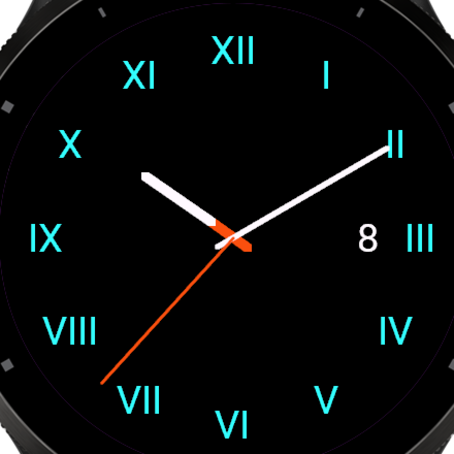
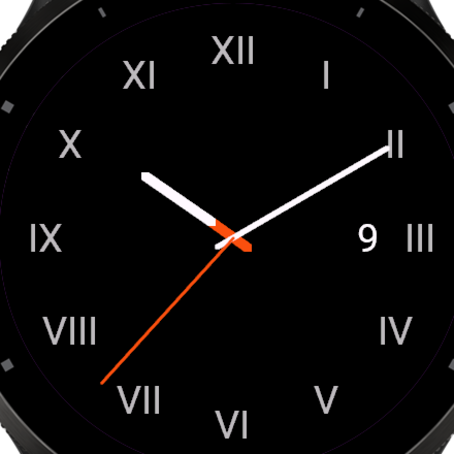
Grey (silver) numerals for the Black/Silver theme (#34) (#35)
Change the Black/Silver numerals from cyan 0x00FFFF to a silver-grey 0xC0C0C0
so the theme actually looks silver. Full-color devices (incl. FR70) render the
grey; fr55's 8-color palette has no grey, so it quantizes to white -- still
readable on black and still distinct from Black/Gold's yellow. Update
gen_screens.py and regenerate the Black/Silver store screenshot.

diff --git a/store/gen_screens.py b/store/gen_screens.py
@@ -23,7 +23,7 @@ THEMES = [
     ("4-red",           0xFF0000, 0xFFFF00, 0xFFFFFF, 0xFFFFFF, 0x00FF00),
     ("5-yellow",        0xFFFF00, 0x000000, 0x000000, 0x000000, 0xFF0000),
     ("6-black_gold",    0x000000, 0xFFFF00, 0xFFFFFF, 0xFFFFFF, 0xFFAAFF),
-    ("7-black_silver",  0x000000, 0x00FFFF, 0xFFFFFF, 0xFFFFFF, 0xFF5500),
+    ("7-black_silver",  0x000000, 0xC0C0C0, 0xFFFFFF, 0xFFFFFF, 0xFF5500),
 ]
 
 def line(x1,y1,x2,y2,color,w):
